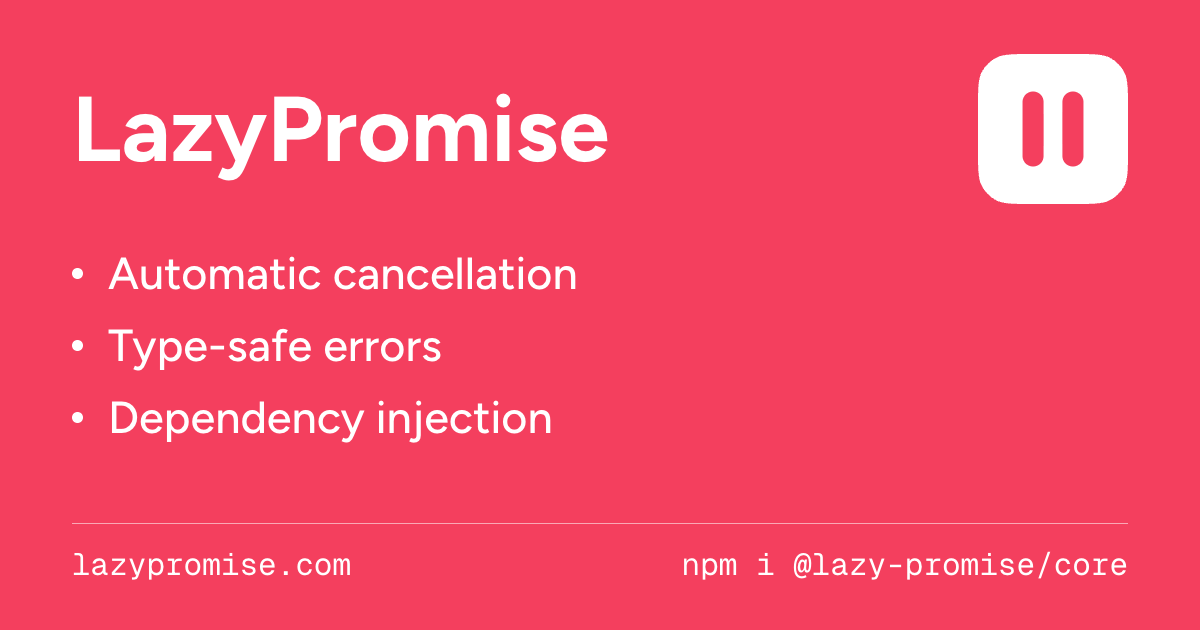
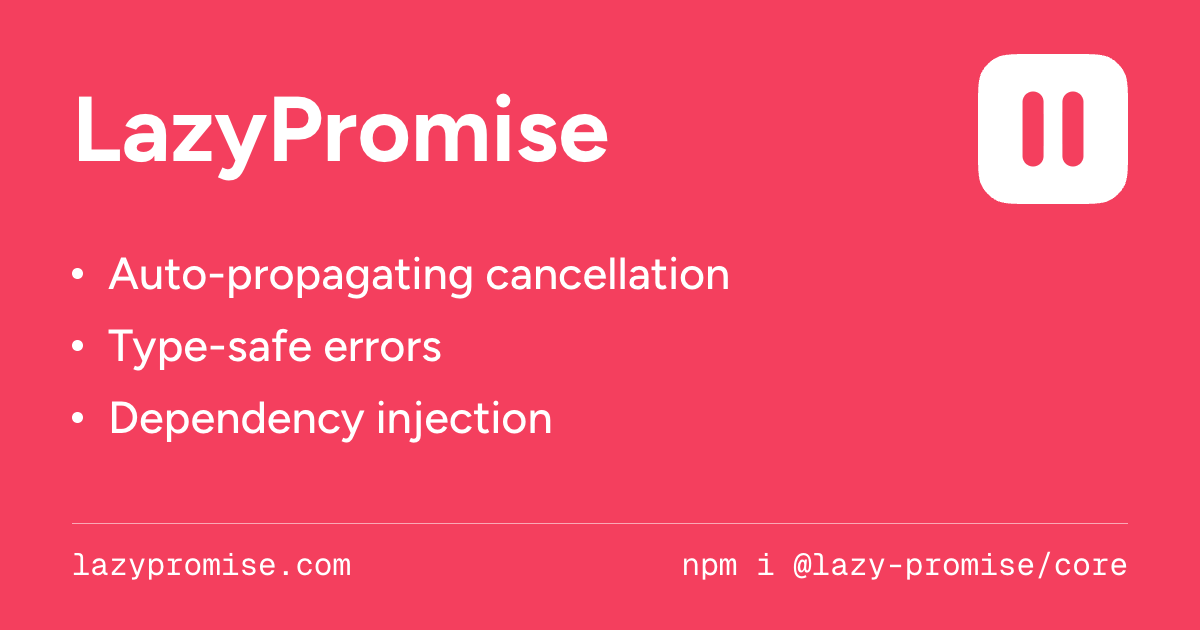
docs

Changed region(s): [[0.1542, 0.3921, 0.6167, 0.4825]]

diff --git a/packages/site/src/site.ts b/packages/site/src/site.ts
@@ -3,7 +3,7 @@ import corePackage from "../../core/package.json";
 export const siteName = "LazyPromise";
 export const coreVersion = corePackage.version;
 export const siteDescription =
-  "Automatic cancellation, type-safe errors, dependency injection";
+  "Auto-propagating cancellation, type-safe errors, dependency injection";
 export const githubUrl = "https://github.com/lazy-promise/lazy-promise";
 export const xUrl = "https://x.com/ivan7237d";
 export const playgroundUrl =

diff --git a/packages/site/assets/og.html b/packages/site/assets/og.html
@@ -113,7 +113,9 @@
       </svg>
     </header>
     <ul class="points">
-      <li><span class="bullet"></span><span>Automatic cancellation</span></li>
+      <li>
+        <span class="bullet"></span><span>Auto-propagating cancellation</span>
+      </li>
       <li><span class="bullet"></span><span>Type-safe errors</span></li>
       <li><span class="bullet"></span><span>Dependency injection</span></li>
     </ul>

diff --git a/README.md b/README.md
@@ -8,7 +8,7 @@ LazyPromise is an async primitive that aims for maximum simplicity and draws upo
 
 Observable is beautifully simple conceptually, and has a great cancellation mechanism. LazyPromise takes care to keep that, but limits Observable to a single shot—you could say it's a JavaScript cousin of a Single in RxJava. A single-shot Observable [nicely complements Signals](https://github.com/lazy-promise/lazy-promise/tree/main/packages/alien-signals) and doesn't have [synchronous reentry gotchas](https://stackblitz.com/edit/rxjs-sync-reentry-vxjr9fhr?devToolsHeight=50&file=index.ts).
 
-### A promise that's lazy and cancelable, but has an otherwise familiar API
+### A promise that's lazy and that auto-propagates cancellation, but has an otherwise familiar API
 
 A native promise is eager and needs AbortController plumbing for cancellation, but in other respects its API is great. The LazyPromise API doesn't just resemble the native promise API, but follows all its subtleties unless stated otherwise in the docs. This has a happy side effect of making the library easier to document and learn.
 

diff --git a/packages/core/README.md b/packages/core/README.md
@@ -8,7 +8,7 @@ LazyPromise is an async primitive that aims for maximum simplicity and draws upo
 
 Observable is beautifully simple conceptually, and has a great cancellation mechanism. LazyPromise takes care to keep that, but limits Observable to a single shot—you could say it's a JavaScript cousin of a Single in RxJava. A single-shot Observable [nicely complements Signals](https://github.com/lazy-promise/lazy-promise/tree/main/packages/alien-signals) and doesn't have [synchronous reentry gotchas](https://stackblitz.com/edit/rxjs-sync-reentry-vxjr9fhr?devToolsHeight=50&file=index.ts).
 
-### A promise that's lazy and cancelable, but has an otherwise familiar API
+### A promise that's lazy and that auto-propagates cancellation, but has an otherwise familiar API
 
 A native promise is eager and needs AbortController plumbing for cancellation, but in other respects its API is great. The LazyPromise API doesn't just resemble the native promise API, but follows all its subtleties unless stated otherwise in the docs. This has a happy side effect of making the library easier to document and learn.
 
